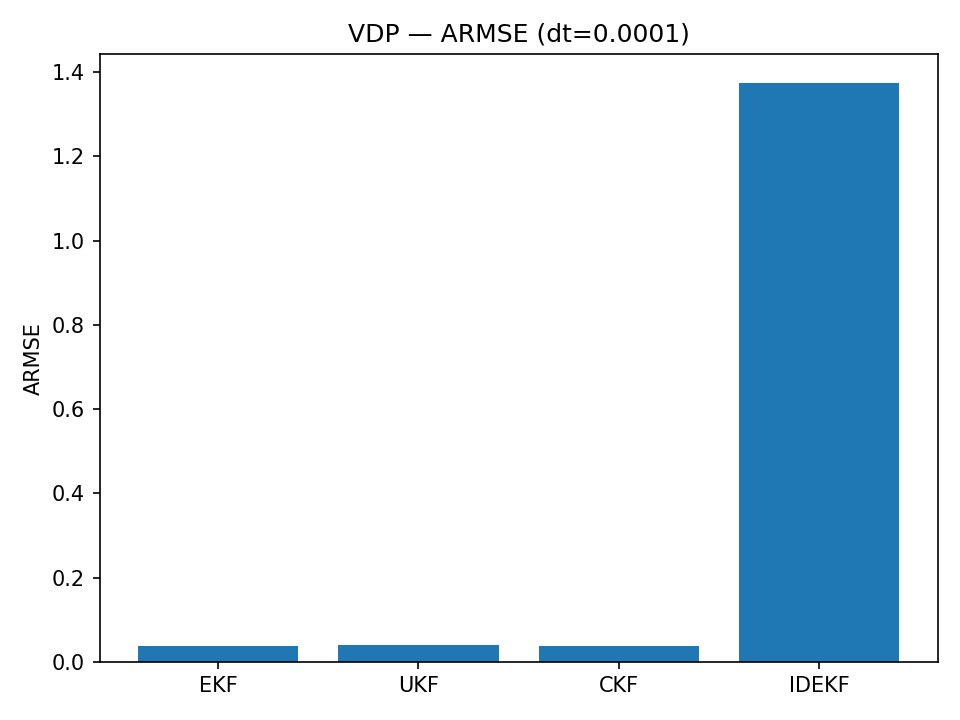
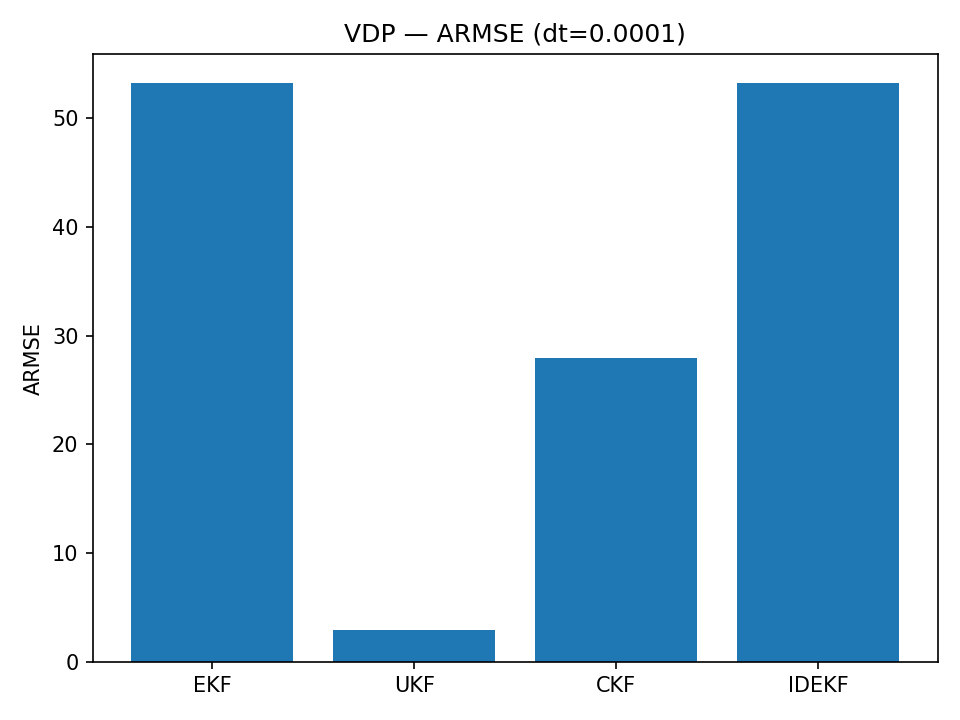
tweaking armse parameters

diff --git a/run_armse.py b/run_armse.py
@@ -29,7 +29,7 @@ def run_once(model_name: str, dt_list, N_runs=20, seed=0):
             h, H = dahlquist_h(), dahlquist_H()
             R = np.array([[0.04]])
         elif model_name == "vdp":
-            mu = 100
+            mu = 10e3
             f, Jf = vdp_f(mu), vdp_J(mu)
             G = np.array([[0.0, 0.0],
                           [0.0, 1.0]])
